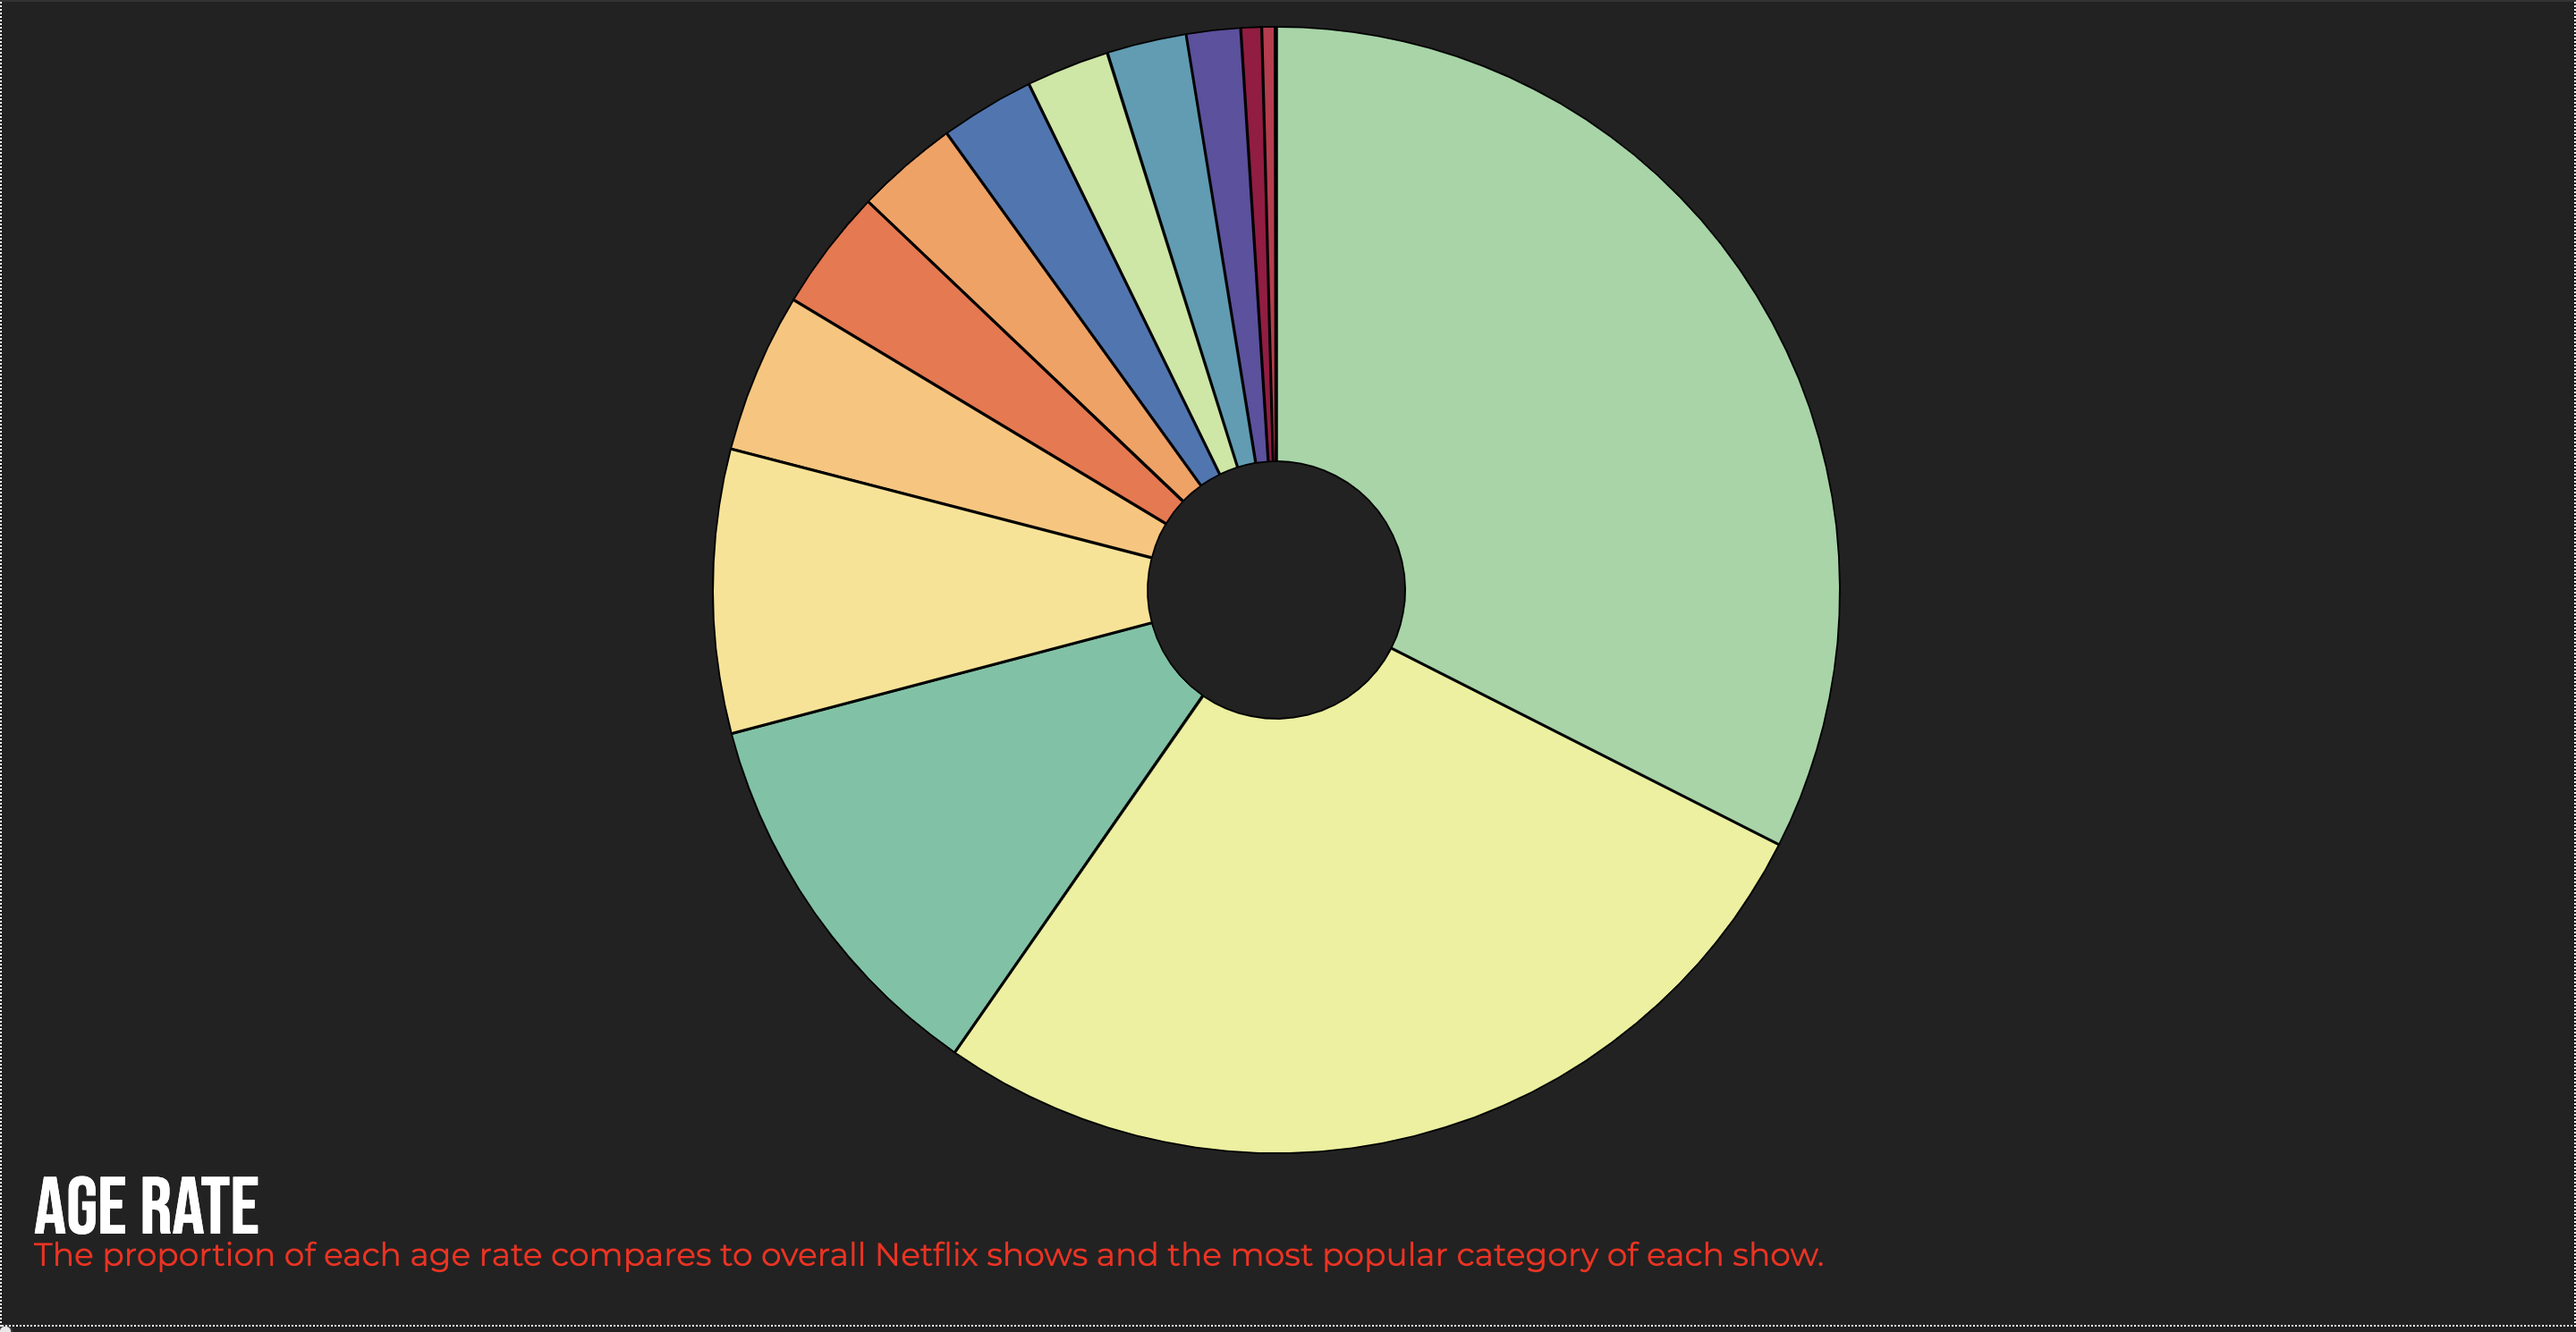
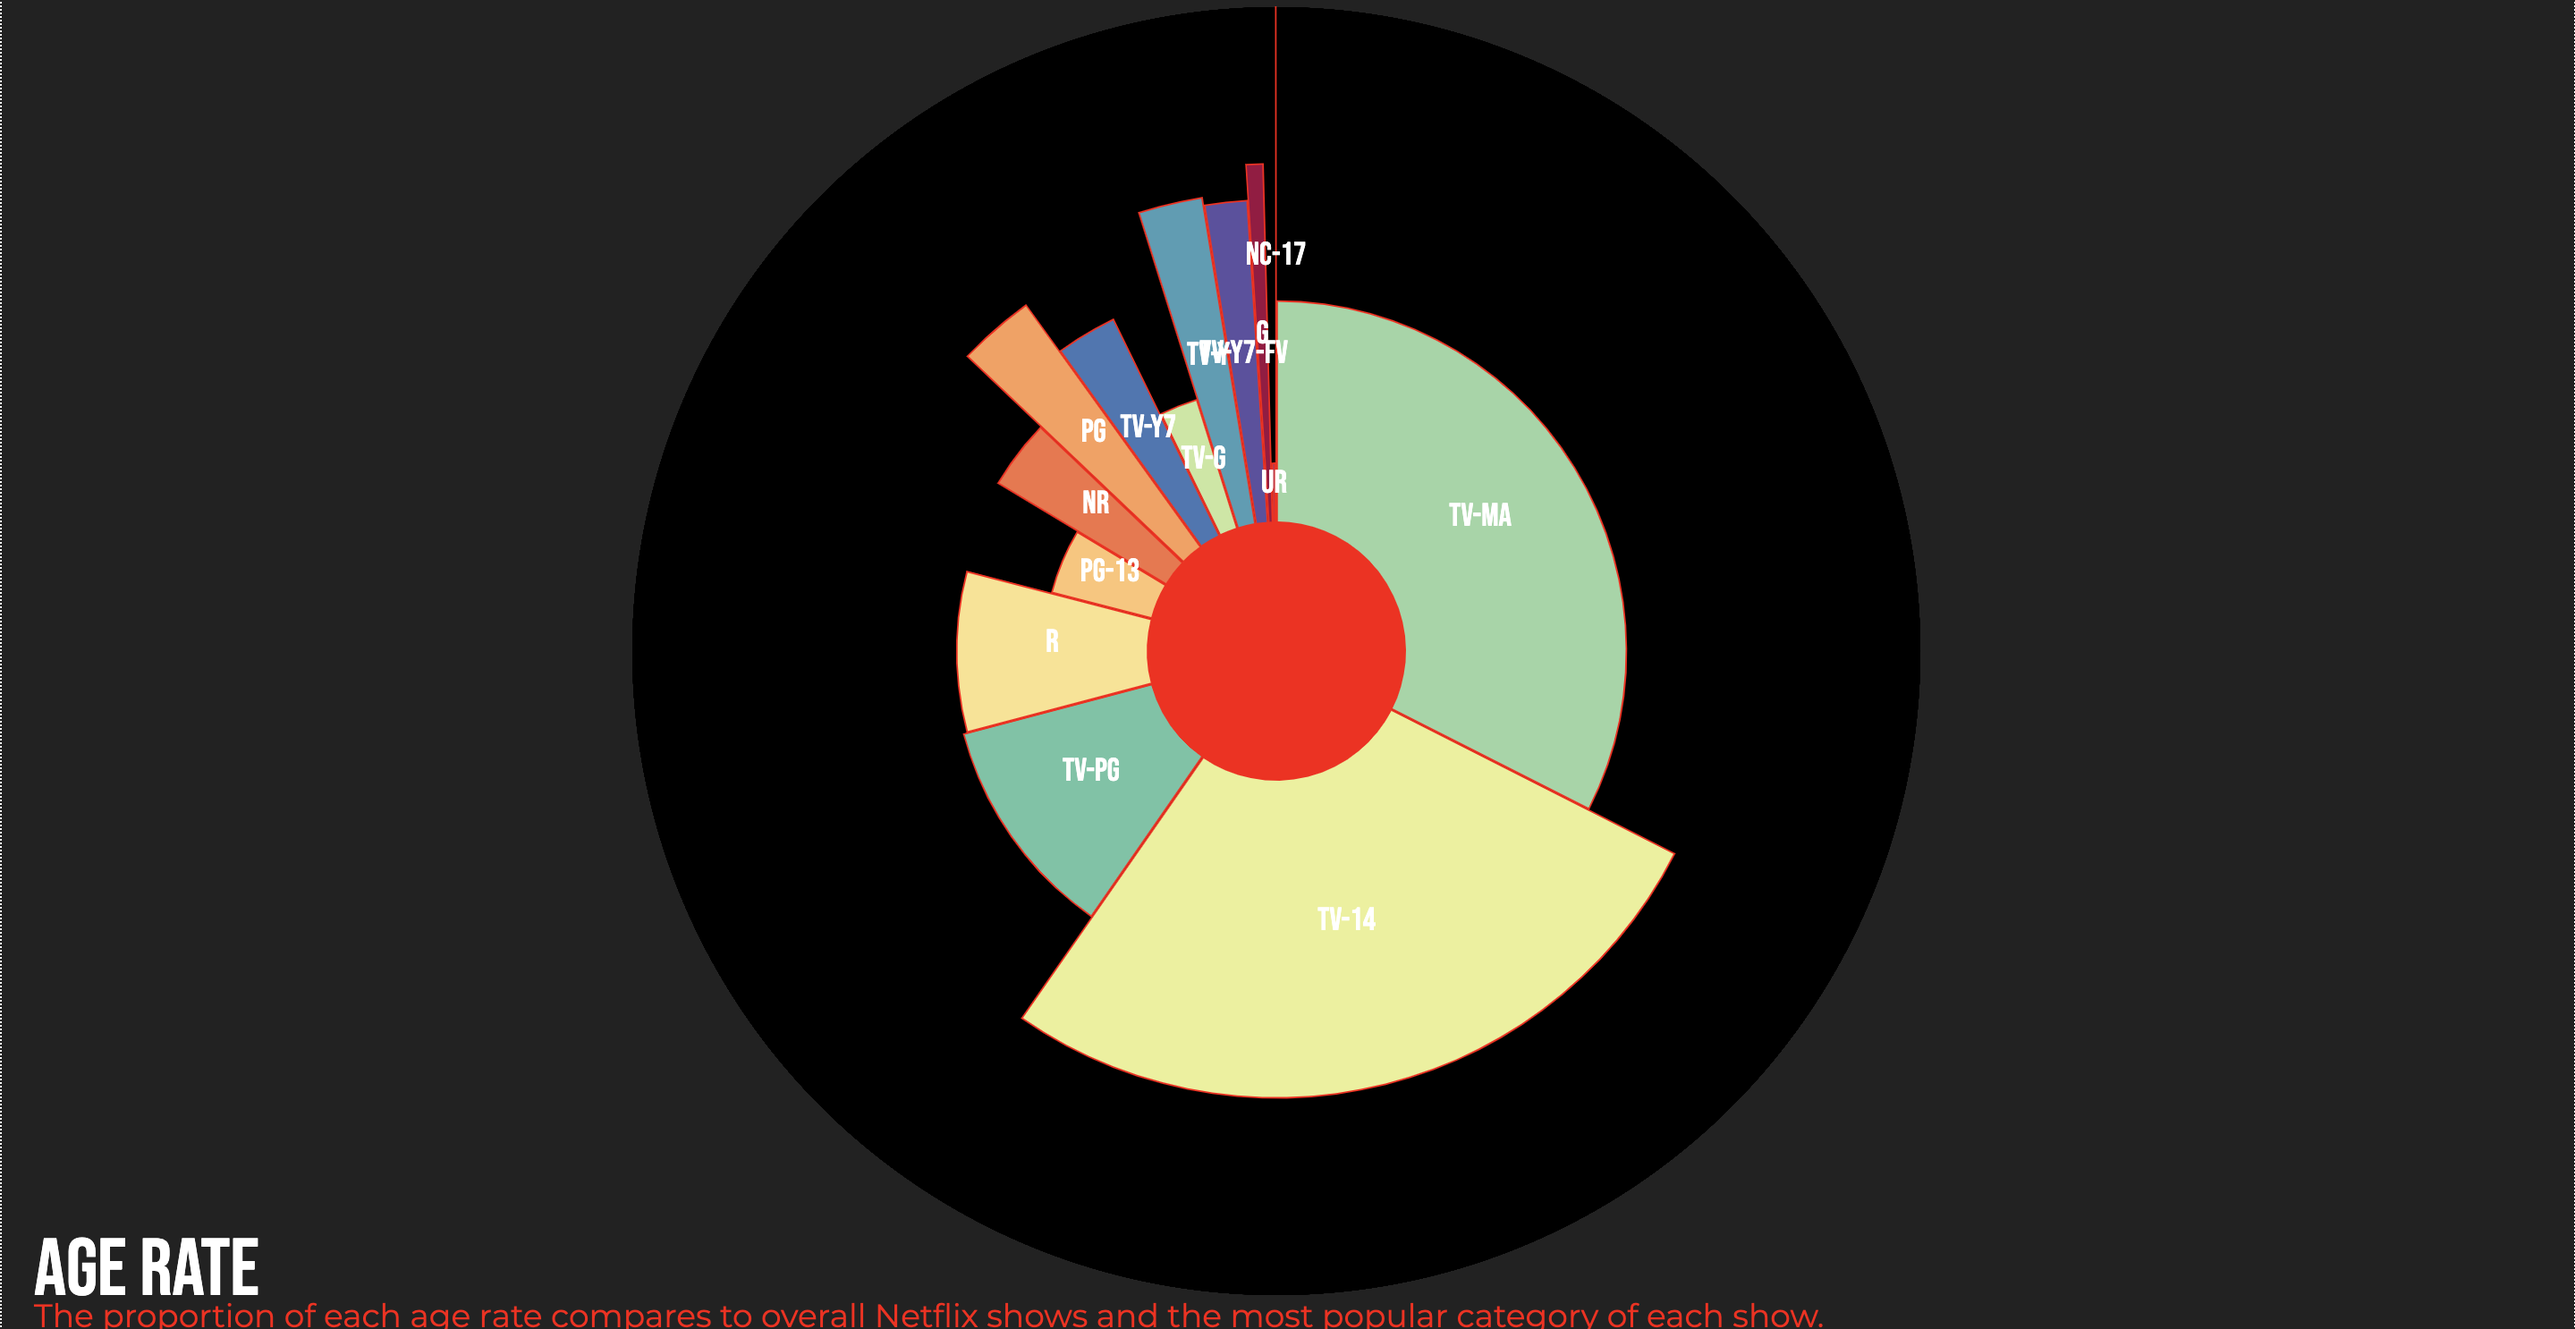
0511 1019

diff --git a/my-work/final/style.css b/my-work/final/style.css
@@ -133,11 +133,45 @@ li.dropdown {
   position: absolute;
   top: 30px;
   z-index: 8;
+    filter: grayscale(90%);
 }
 
 .pageGuideImage:hover{
-  filter: grayscale(50%);
+  filter: grayscale(0%);
+  width:310px;
+  height:171px;
+  top: 25px;
+
 }
+
+/* .overlay {
+  position: absolute;
+  top: 0;
+  bottom: 0;
+  left: 0;
+  right: 0;
+  height: 100%;
+  width: 100%;
+  opacity: 0;
+  transition: .5s ease;
+  background-color: #008CBA;
+}
+
+.pageGuideImage:hover .overlay {
+  opacity: 1;
+}
+
+.overlayText {
+  color: white;
+  font-size: 20px;
+  position: absolute;
+  top: 50%;
+  left: 50%;
+  -webkit-transform: translate(-50%, -50%);
+  -ms-transform: translate(-50%, -50%);
+  transform: translate(-50%, -50%);
+  text-align: center;
+} */
 
 
 #pageGuide1{

diff --git a/my-work/final/script.js b/my-work/final/script.js
@@ -1127,6 +1127,11 @@ function ready(error, world, names) {
     .attr("fill","black")
     .attr("x",w/2)
 
+    rateGraph.append("circle")
+    .attr("r",80)
+    .attr("fill","red")
+    .attr("x",w/2)
+
     rateGraph
     .append("path")
       .attr("fill", function(d){
@@ -1186,7 +1191,7 @@ function ready(error, world, names) {
       .attr("fill","white")
       .style("text-anchor", "middle")
       .style("font-family","'Bebas Neue', cursive")
-      .style("font-size",18)
+      .style("font-size",20)
 
 
 

diff --git a/my-work/final/index.html b/my-work/final/index.html
@@ -72,6 +72,7 @@
 
       <div id="pageGuide">
         <a href="#worldPage"><img src="image/worldShot.png" alt="world" class="pageGuideImage" id="pageGuide1"></a>
+
         <a href="#TVMoviePage"><img src="image/tvmShot.png" alt="TVM" class="pageGuideImage" id="pageGuide2"></a>
         <a href="#releasedYearPage"><img src="image/yearShot.png" alt="year" class="pageGuideImage" id="pageGuide3"></a>
         <a href="#ratePage"><img src="image/rateShot.png" alt="rate" class="pageGuideImage" id="pageGuide4"></a>
